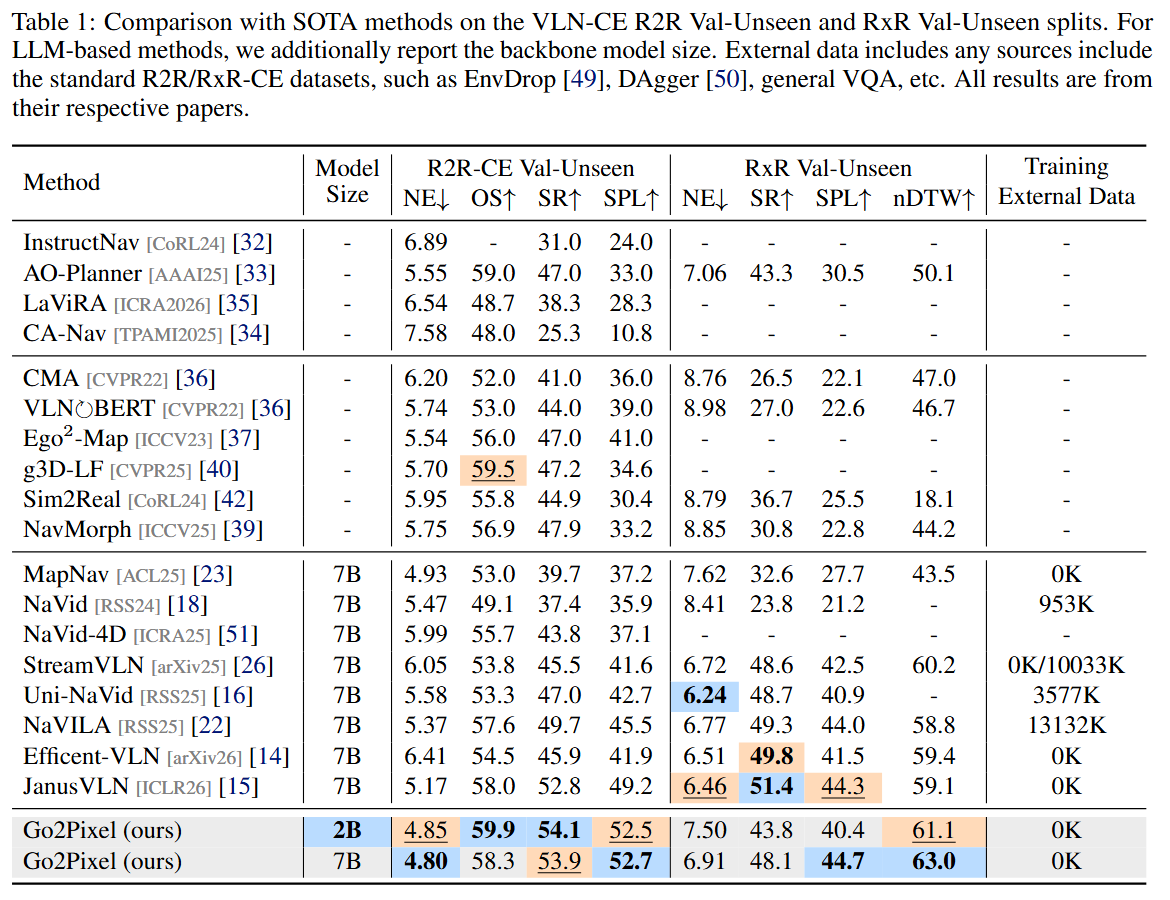
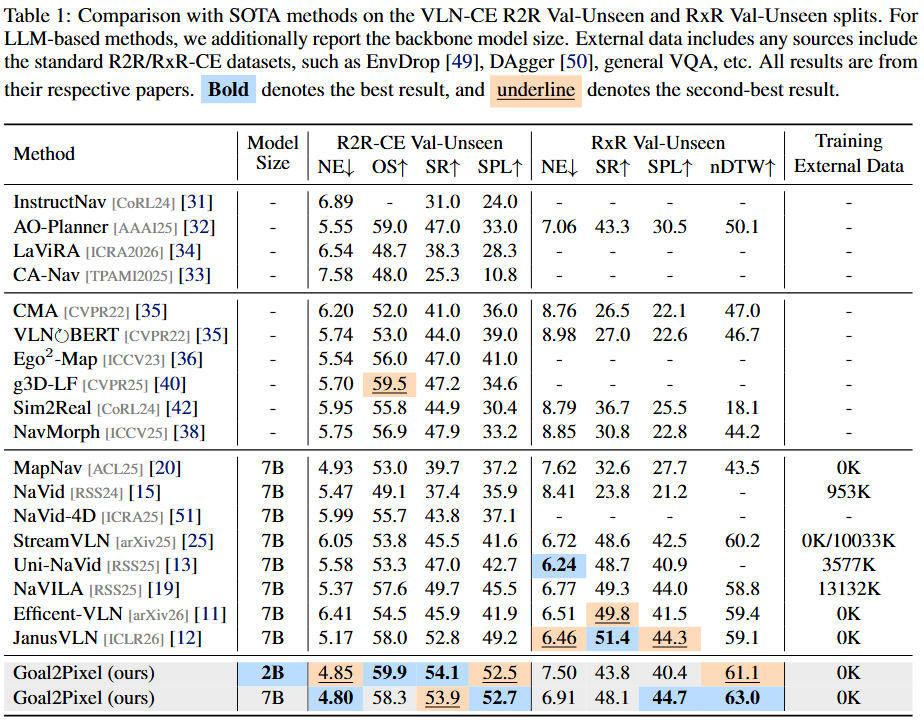
update

Changed region(s): [[0.0, 0.0, 1.0, 1.0]]

diff --git a/index.html b/index.html
@@ -3,7 +3,7 @@
 <head>
 <meta charset="UTF-8">
 <meta name="viewport" content="width=device-width, initial-scale=1.0">
-<title>Go2Pixel: Grounding Navigation Goals to Image Pixels for Vision-Language Navigation</title>
+<title>Goal2Pixel: Grounding Goals to Pixels for Vision-Language Navigation</title>
 <style>
 :root {
   --bg: #ffffff;
@@ -188,6 +188,14 @@ h3 {
 .image-slot.wide { min-height: 420px; }
 .image-slot.medium { min-height: 300px; }
 .image-slot.small { min-height: 240px; }
+.image-slot.history-ablation {
+  max-width: 580px;
+  margin: 0 auto;
+}
+.image-slot.component-ablation {
+  max-width: 500px;
+  margin: 0 auto;
+}
 .image-slot img {
   display: block;
   width: 100%;
@@ -379,7 +387,7 @@ footer {
 
 <header class="hero">
   <div class="venue">CoRL 2026 Submission</div>
-  <h1>Go2Pixel: Grounding Navigation Goals to Image Pixels for Vision-Language Navigation</h1>
+  <h1>Goal2Pixel: Grounding Goals to Pixels for Vision-Language Navigation</h1>
   <p class="subtitle">A pixel-based interface that turns high-level vision-language reasoning into navigable image goals.</p>
   <p class="authors">Anonymous Author(s)</p>
   <div class="links">
@@ -393,16 +401,17 @@ footer {
   <section class="section" id="abstract">
     <h2>Abstract</h2>
     <div class="abstract">
-      <p>Recent vision-language model (VLM) based methods for vision-and-language navigation in continuous environments (VLN-CE) commonly formulate navigation as low-level action prediction. However, this action-centric interface is often ambiguous, tied to short-horizon motion primitives, and inefficient due to repeated low-level querying. In this work, we propose <strong>Go2Pixel</strong>, a pixel-based paradigm that reformulates VLN-CE as navigable pixel grounding. Instead of predicting actions, Go2Pixel uses the image plane as a unified spatial interface between VLM reasoning and executable robot motion: the model outputs a navigable pixel coordinate, which is either back-projected into a 3D waypoint for forward navigation or interpreted through semantic padding regions for turning and stopping. To support long-horizon pixel grounding, we introduce a visibility-aware keyframe history representation that preserves compact navigation history images with trajectory overlays. To bridge the gap between pretrained VLM and pixel-space navigation, we further introduce lightweight adaptations, including visual semantic embeddings and coordinate-aware auxiliary losses, to improve the model's understanding of navigation-specific visual patterns and pixel-coordinate prediction. Experiments on R2R-CE and RxR-CE show that Go2Pixel achieves competitive navigation performance while substantially reducing VLM inference cost. On R2R-CE Val-Unseen, Go2Pixel achieves 54.1% SR and 52.5% SPL, while reducing average VLM calls from 46.62 to 7.75 compared with direct one-action prediction.</p>
+        <p>Vision-language models (VLMs) have become a common foundation for vision-and-language navigation in continuous environments (VLN-CE). Yet most VLM-based methods cast navigation as low-level action prediction, an interface that is ambiguous, tied to short-horizon motion primitives, and inefficient due to repeated VLM querying. We propose <strong>Goal2Pixel</strong>, a pure pixel-based paradigm that reformulates VLN-CE as <em>navigable pixel grounding</em>. Rather than predicting actions, Goal2Pixel uses the image plane as a unified spatial interface between VLM reasoning and robot motion: the model predicts a visible navigable pixel with a direct line of sight to the agent, which is back-projected into a 3D waypoint for forward navigation, while auxiliary directive regions encode turning and stopping. A visibility-aware keyframe history with trajectory overlays provides long-horizon context, while visual semantic embeddings and coordinate-aware auxiliary losses adapt pretrained VLMs to pixel-space prediction. Goal2Pixel achieves competitive state-of-the-art performance while requiring fewer VLM inference calls than prior methods. On R2R-CE Val-Unseen it achieves 54.1% SR and 52.5% SPL with just 7.75 VLM calls per episode, 6x fewer than the 46.62 required by direct action prediction at 32.9% SR. The same trend holds on RxR-CE.</p>
     </div>
   </section>
 
   <section class="section" id="contributions">
     <h2>Contributions</h2>
     <ul class="contributions">
-      <li>We propose <strong>Go2Pixel</strong>, a pixel-based output interface that reformulates VLM-based VLN-CE from low-level action prediction into image-space goal grounding, providing an interface between VLM reasoning and executable motion.</li>
-      <li>We introduce <strong>ViKeyMem</strong> for compact visibility-aware history representation, together with lightweight VLM adaptations that improve pixel grounding.</li>
-      <li>Experiments on R2R-CE and RxR-CE show that Go2Pixel achieves competitive performance while substantially reducing VLM inference calls.</li>
+      <li><strong>Goal2Pixel</strong>, a pure pixel-based interface that reformulates VLM-based VLN-CE from action prediction to image-space goal grounding.</li>
+      <li><strong>ViKeyMem</strong>, a compact visibility-aware history representation that selects keyframes based on visibility change with trajectory overlays.</li>
+      <li>Lightweight adaptations, including semantic embeddings and coordinate-aware auxiliary losses to improve navigable pixel grounding.</li>
+      <li><strong>Goal2Pixel</strong> achieves 54.1% / 52.5% on R2R-CE and 48.1% / 44.7% on RxR-CE in SR / SPL. Compared with direct action prediction, our pixel-based paradigm improves R2R-CE SR by 21.2% SR and reduces the average number of VLM calls by about 6x.</li>
     </ul>
   </section>
 
@@ -456,7 +465,7 @@ footer {
       <h3>History Representation and ViKeyMem Visualization</h3>
       <div class="stacked-media">
         <div>
-          <div class="image-slot medium">
+          <div class="image-slot medium history-ablation">
             <img src="resources/images/ablation_history.png" alt="History representation ablation study table">
           </div>
         </div>
@@ -476,7 +485,7 @@ footer {
 
     <div class="ablation-block">
       <h3>Component Ablation Study</h3>
-      <div class="image-slot medium">
+      <div class="image-slot medium component-ablation">
         <img src="resources/images/ablation_component.png" alt="Component ablation study table">
       </div>
     </div>
@@ -493,7 +502,7 @@ footer {
     <h2>Citation</h2>
     <div class="citation">
       <pre>@inproceedings{anonymous2026go2pixel,
-  title     = {Go2Pixel: Grounding Navigation Goals to Image Pixels for Vision-Language Navigation},
+  title     = {Goal2Pixel: Grounding Goals to Pixels for Vision-Language Navigation},
   author    = {Anonymous Author(s)},
   booktitle = {Conference on Robot Learning},
   year      = {2026},
